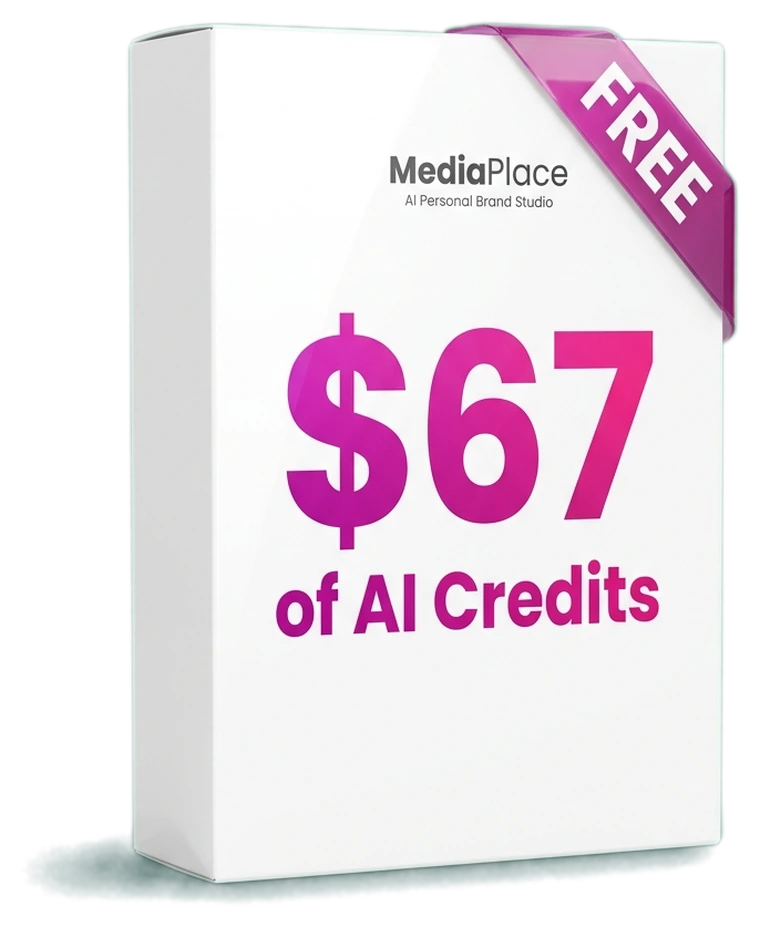
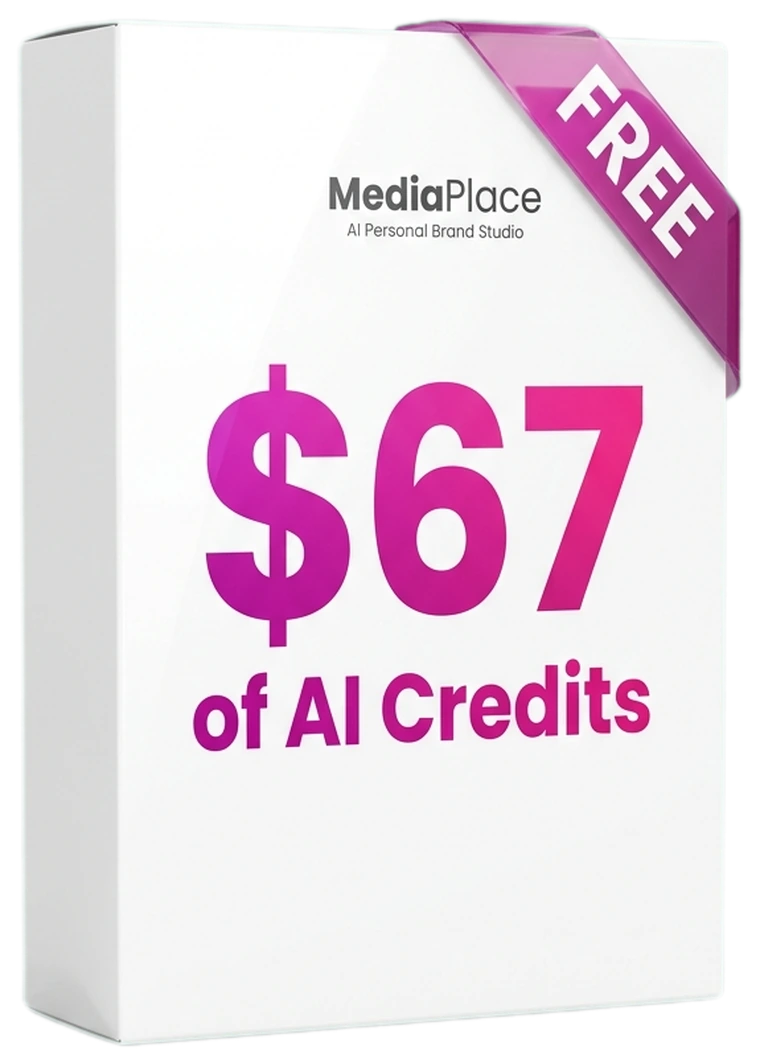
box67 clean + no shadow

diff --git a/oto1.html b/oto1.html
@@ -194,7 +194,7 @@ footer{background:#1001,000;color:#9a8fae;padding:30px 0;text-align:center;font-
 .credits .eyebrow{color:rgba(255,255,255,.9)}.credits h2{color:#fff}
 .credits p{color:rgba(255,255,255,.95);max-width:680px;margin:0 auto;font-size:1.1rem}
 .credit-row{display:flex;align-items:center;justify-content:center;gap:46px;max-width:860px;margin:34px auto 0;text-align:left}
-.credit-box{flex:0 0 auto;display:block;width:236px;max-width:100%;height:auto;filter:drop-shadow(0 24px 48px rgba(0,0,0,.40))}
+.credit-box{flex:0 0 auto;display:block;width:236px;max-width:100%;height:auto}
 .credit-ticks{flex:1 1 330px;min-width:0;list-style:none;display:grid;gap:15px;margin:0;padding:0}
 .credit-ticks li{display:flex;gap:13px;align-items:flex-start;font-size:1.06rem;font-weight:600;color:#fff;line-height:1.42}
 .credit-ticks li::before{content:'✓';flex:0 0 auto;width:26px;height:26px;border-radius:50%;background:#fff;color:var(--brand-deep);font-weight:900;font-size:.86rem;display:flex;align-items:center;justify-content:center;margin-top:1px}